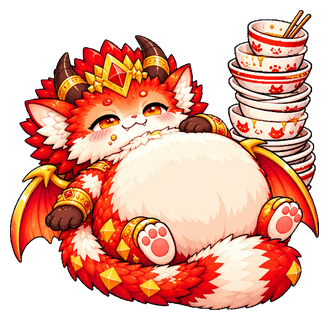
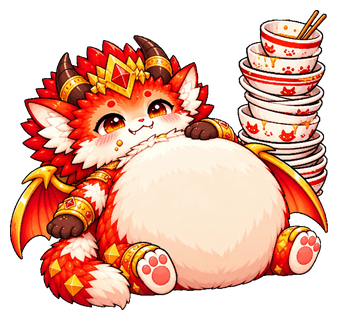
MawKorn: 07 So full v3 processed
Claude-Session: https://claude.ai/code/session_01CqN5TM8CtnKZx6KMXb1z93

diff --git a/mangkorn/PLAN.md b/mangkorn/PLAN.md
@@ -25,7 +25,7 @@ New chat? Read this whole file first, then continue from **Status**.
 - 04 No: v1 (grumpy face and crossed arm accepted). X was red; recoloured **blue** in code → `stickers/04-no.png` (344×320). **Approved.** Red version kept in `incoming/04-no-v1-red-x-clean.png`.
 - 05 Thank you: v3 = Chinese formal bow (front view, head bowed into joined paws, elbows out, no hearts) → `stickers/05-thank-you.png` (334×320). **Approved.** Older: v1 sitting (`incoming/05-thank-you-v1-sitting-clean.png`), v2 paws at chest (`incoming/05-thank-you-v2-clean.png`).
 - 06 Sorry: v4 = head down, eyes squeezed (><), paws together low, sweat drops → `stickers/06-sorry.png` (370×316). **Approved.** (The small white wiggle lines by the tail were removed by the cleanup.) Older versions in `incoming/06-*`. v2 (`incoming/06-sorry-v2-clean.png`) was offered for 07 Please; user wants a new pose.
-- 07 So full: v2 (bigger belly, face closer to model) → forehead dot recoloured red in code → `tools/make_sticker.py ... --no-border` → `stickers/07-so-full.png` (330×320). Waiting for approval. (Please and Eating were dropped/rejected earlier.)
+- 07 So full: v3 (tail fixed, big round eyes, red forehead dots) → `stickers/07-so-full.png` (338×320, `--no-border`). Waiting for approval. Older: `incoming/07-so-full-v1.png`, `-v2-clean.png`.
 - Tool update: stricter green removal + lime-yellow pocket removal; 01–03 re-processed with it.
 
 ## Rules from the user (follow every time)
